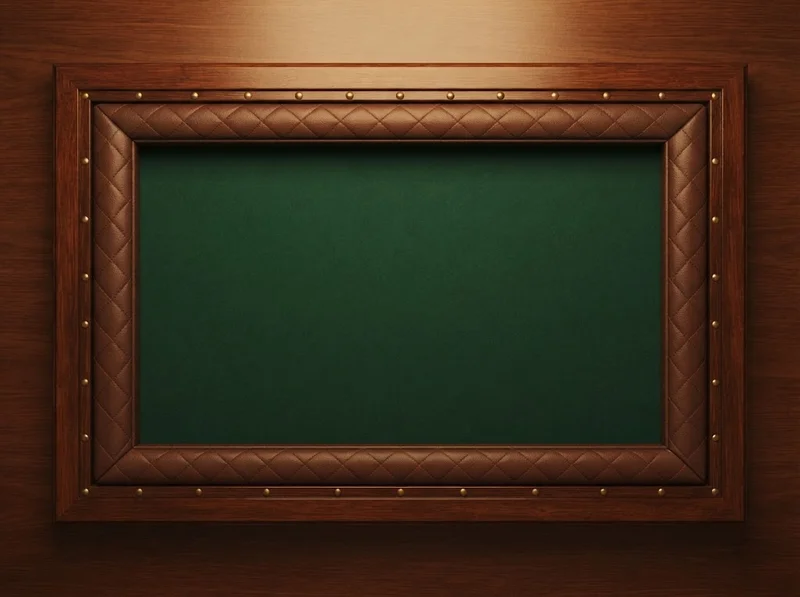
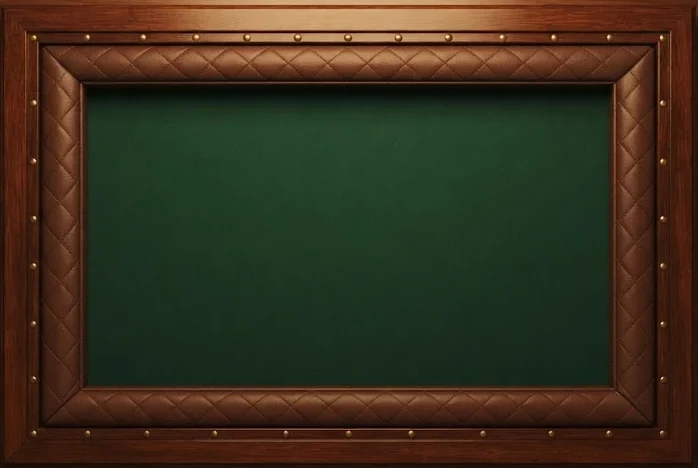
Yams: tableau sous la pince, plateau de dés recadré; Chevaux: pions plus petits et non coupés
Claude-Session: https://claude.ai/code/session_01UTaypXBnC3UMfvWUL5q9hs

diff --git a/yams/index.html b/yams/index.html
@@ -60,14 +60,14 @@ input{width:100%;padding:12px;border-radius:12px;border:2px solid var(--muted);b
 body{background-image:radial-gradient(circle at 50% 0,#2a2f6a,#0f1530 70%)}
 .vch{display:flex;gap:6px;justify-content:center;margin:2px 0 8px}.vch button{padding:0;border:2px solid transparent;border-radius:12px;background:none;width:50px;height:50px;overflow:hidden;opacity:.6}.vch button.on{border-color:var(--gold);opacity:1}.vch img{width:100%;height:100%;object-fit:cover}.pl img.vt{width:100%;height:46px;object-fit:cover;border-radius:8px;margin-bottom:3px}#req{display:flex;gap:10px;align-items:center;text-align:left}#req img{width:84px;height:84px;border-radius:10px;flex:none;object-fit:cover}
 body{background:#2a1a0e url(img/table.webp) center/cover fixed}
-#tray{position:relative;width:100%;max-width:430px;aspect-ratio:2/1;margin:6px auto;background:url(img/tray.webp) center/cover;border-radius:10px;box-shadow:0 6px 14px #000a;display:flex;align-items:center;justify-content:center;gap:2.5%}
+#tray{position:relative;width:100%;max-width:430px;aspect-ratio:698/468;margin:6px auto;background:url(img/tray.webp) center/100% 100%;border-radius:10px;box-shadow:0 6px 14px #000a;display:flex;align-items:center;justify-content:center;gap:2.5%}
 .die{width:15%;aspect-ratio:1;background-size:100% 100%;transition:transform .15s;cursor:pointer;filter:drop-shadow(0 3px 3px #000a)}
 .die{position:relative;touch-action:manipulation;-webkit-user-select:none;user-select:none}.die.k{transform:translateY(-14%) scale(1.06);border-radius:16%;box-shadow:0 0 0 4px #f0c060,0 0 14px 4px #f0c060;filter:drop-shadow(0 0 6px #f0c060)}.die.k::after{content:'GARDÉ';position:absolute;left:50%;bottom:-17px;transform:translateX(-50%);font:800 9px system-ui;color:#2a1c12;background:#f0c060;border-radius:8px;padding:1px 6px;white-space:nowrap}
 .die.r{animation:shake .5s}@keyframes shake{20%{transform:rotate(-20deg) translateY(-8px)}50%{transform:rotate(25deg) translateY(4px)}80%{transform:rotate(-10deg)}}
 #ac{display:flex;gap:8px;align-items:center;max-width:430px;margin:0 auto}#ac .ob{margin:6px 0;padding:10px 6px;font-size:15px;display:flex;align-items:center;justify-content:center;gap:8px}
 #ac img{height:30px}
 #sh{position:relative;width:100%;max-width:430px;aspect-ratio:470/735;margin:8px auto;background:url(img/pad.webp) center/100% 100% no-repeat;filter:drop-shadow(0 6px 10px #000a)}
-#tbl{position:absolute;left:6%;top:13.6%;width:88%;height:77.8%;border-collapse:collapse;table-layout:fixed;color:#2a1a0e;font-size:12px}
+#tbl{position:absolute;left:6.6%;top:19.6%;width:86.8%;height:71.4%;border-collapse:collapse;table-layout:fixed;color:#2a1a0e;font-size:12px}
 #tbl td,#tbl th{border-bottom:1px solid #8a6a3a55;padding:0 2px;text-align:center;overflow:hidden;white-space:nowrap}
 #tbl th{font-size:11px;font-weight:800}#tbl td:first-child,#tbl th:first-child{text-align:left;width:34%;font-weight:700}
 #tbl td.cur,#tbl th.cur{background:#e8b85a33}

diff --git a/chevaux/index.html b/chevaux/index.html
@@ -39,12 +39,12 @@ input{width:100%;padding:12px;border-radius:12px;border:2px solid var(--muted);b
 body{background-image:radial-gradient(circle at 50% 0,#4a2f1c,#1a1008 70%);--gold:#e8b85a}
 #bw{width:min(100%,calc(100vh - 290px));margin:6px auto 0}
 #bd{position:relative;width:100%;aspect-ratio:1;border-radius:10px;background:linear-gradient(135deg,#7a4a22,#5b3416);box-shadow:0 10px 26px #000b,inset 0 0 0 3px #3a200c,inset 0 0 0 6px #b98a4a55}
-#fl{position:absolute;inset:3.2%;background:#a8692f;border-radius:4px;overflow:hidden}
+#fl{position:absolute;inset:3.2%;background:#a8692f;border-radius:4px;overflow:visible}
 #fl>*{position:absolute}
 .pc{background:#e3b778;box-shadow:inset 0 0 0 1px #8a5a2a88;border-radius:2px;display:flex;align-items:center;justify-content:center;font-size:2.2vmin;color:#fff}
 .pc.s{font-weight:900;text-shadow:0 1px 2px #000}
 .yd,.ct{pointer-events:none}
-.hp{width:7.4%;transform:translate(-50%,-80%);transition:left .35s ease,top .35s ease;filter:drop-shadow(0 2px 2px #000a);cursor:default}
+.hp{width:5.2%;transform:translate(-50%,-68%);transition:left .35s ease,top .35s ease;filter:drop-shadow(0 2px 2px #000a);cursor:default}
 .hp.mv{cursor:pointer;animation:bob .6s infinite alternate;filter:drop-shadow(0 0 5px #fff) drop-shadow(0 0 7px #ffe066)}
 @keyframes bob{to{transform:translate(-50%,-92%)}}
 #dz{display:flex;align-items:center;gap:12px;margin:10px 0}

diff --git a/chevaux/sw.js b/chevaux/sw.js
@@ -1,4 +1,4 @@
-const CACHE='jeux-chevaux-v1';
+const CACHE='jeux-chevaux-v3';
 const FILES=["./", "./index.html", "./peerjs.min.js", "./manifest.webmanifest", "./icons/icon-192.png", "./icons/icon-512.png", "./img/yr.webp", "./img/yb.webp", "./img/yy.webp", "./img/yg.webp", "./img/ctr.webp", "./img/h0.webp", "./img/h1.webp", "./img/h2.webp", "./img/h3.webp", "./img/d1.webp", "./img/d2.webp", "./img/d3.webp", "./img/d4.webp", "./img/d5.webp", "./img/d6.webp"];
 self.addEventListener('install',e=>{e.waitUntil(caches.open(CACHE).then(c=>c.addAll(FILES)).then(()=>self.skipWaiting()));});
 self.addEventListener('activate',e=>{e.waitUntil(caches.keys().then(ks=>Promise.all(ks.filter(k=>k.startsWith('jeux-chevaux-')&&k!==CACHE).map(k=>caches.delete(k)))).then(()=>self.clients.claim()));});

diff --git a/index.html b/index.html
@@ -114,7 +114,7 @@ a.g .tag{position:absolute;right:5px;top:5px;font-size:11px;font-weight:800;back
 </script>
 <script>
 (function(){
-  const VERSION='n°201 · 28/10 21:56';
+  const VERSION='n°202 · 28/10 21:57';
   const ver=document.getElementById('ver'),upd=document.getElementById('upd');
   ver.textContent='Version '+VERSION;
   document.querySelectorAll('a.g').forEach(x=>{const h=x.getAttribute('href');if(h&&!h.includes('?'))x.setAttribute('href',h+'?v='+encodeURIComponent(VERSION));const im=x.querySelector('img');if(im)im.src=im.getAttribute('src')+'?v='+encodeURIComponent(VERSION);x.addEventListener('click',()=>{try{localStorage.setItem('hub-last',x.dataset.n+'|'+x.getAttribute('href')+'|'+im.getAttribute('src'));}catch(e){}});});

diff --git a/yams/sw.js b/yams/sw.js
@@ -1,4 +1,4 @@
-const CACHE='jeux-yams-v1';
+const CACHE='jeux-yams-v2';
 const FILES=['./','./index.html','./peerjs.min.js','./manifest.webmanifest','./icons/icon-192.png','./icons/icon-512.png','./img/d1.webp','./img/d2.webp','./img/d3.webp','./img/d4.webp','./img/d5.webp','./img/d6.webp','./img/cup.webp','./img/tray.webp','./img/pad.webp','./img/table.webp'];
 self.addEventListener('install',e=>{e.waitUntil(caches.open(CACHE).then(c=>c.addAll(FILES)).then(()=>self.skipWaiting()));});
 self.addEventListener('activate',e=>{e.waitUntil(caches.keys().then(ks=>Promise.all(ks.filter(k=>k.startsWith('jeux-yams-')&&k!==CACHE).map(k=>caches.delete(k)))).then(()=>self.clients.claim()));});
